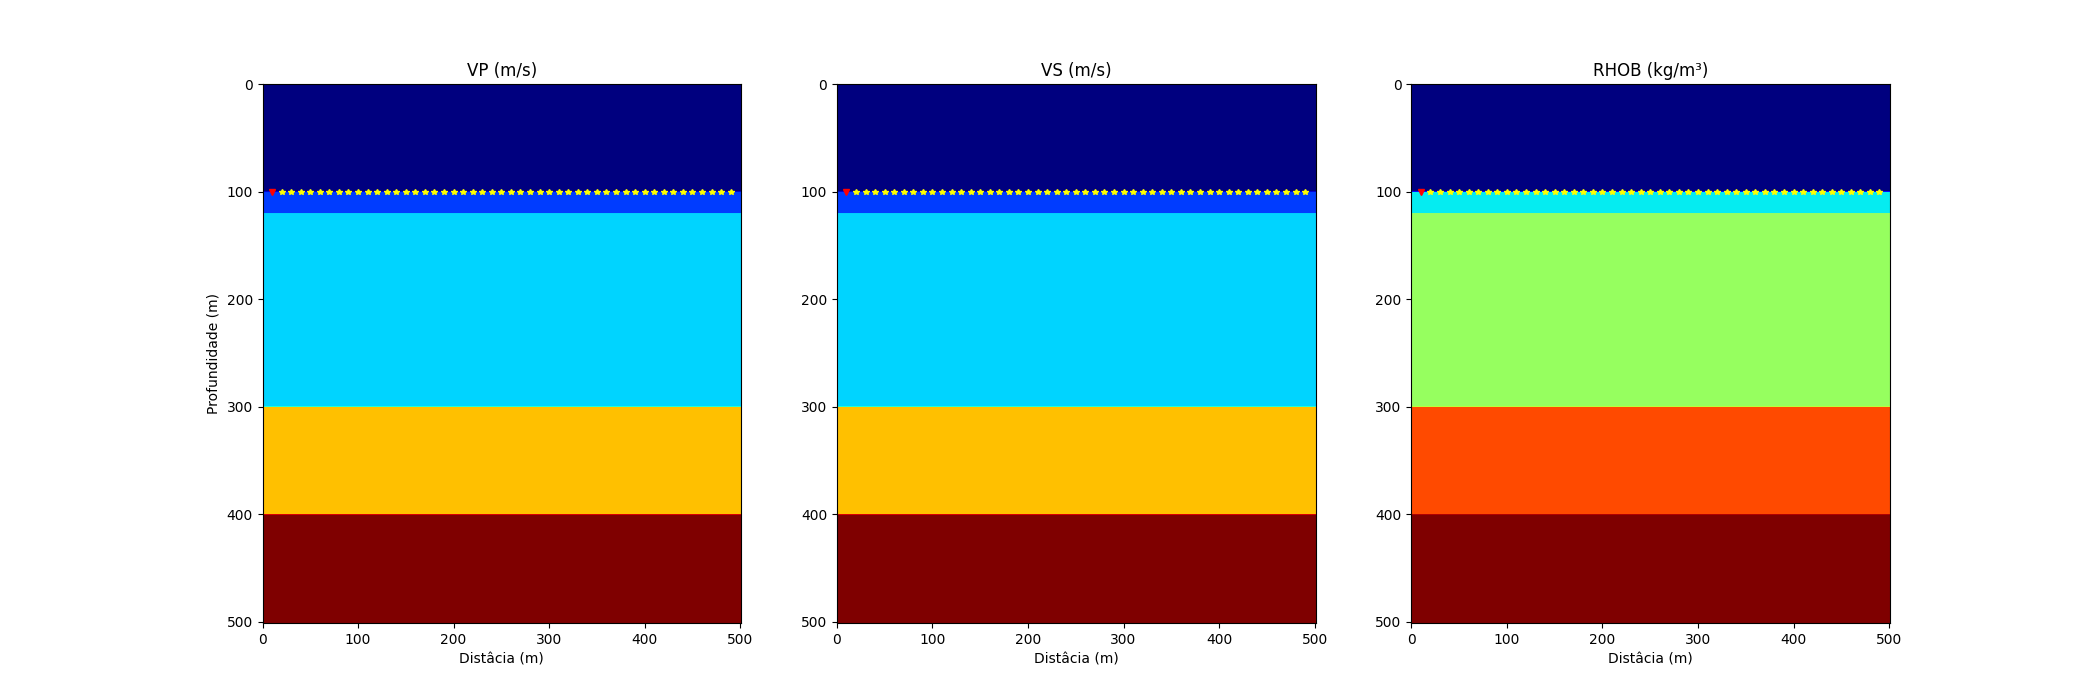
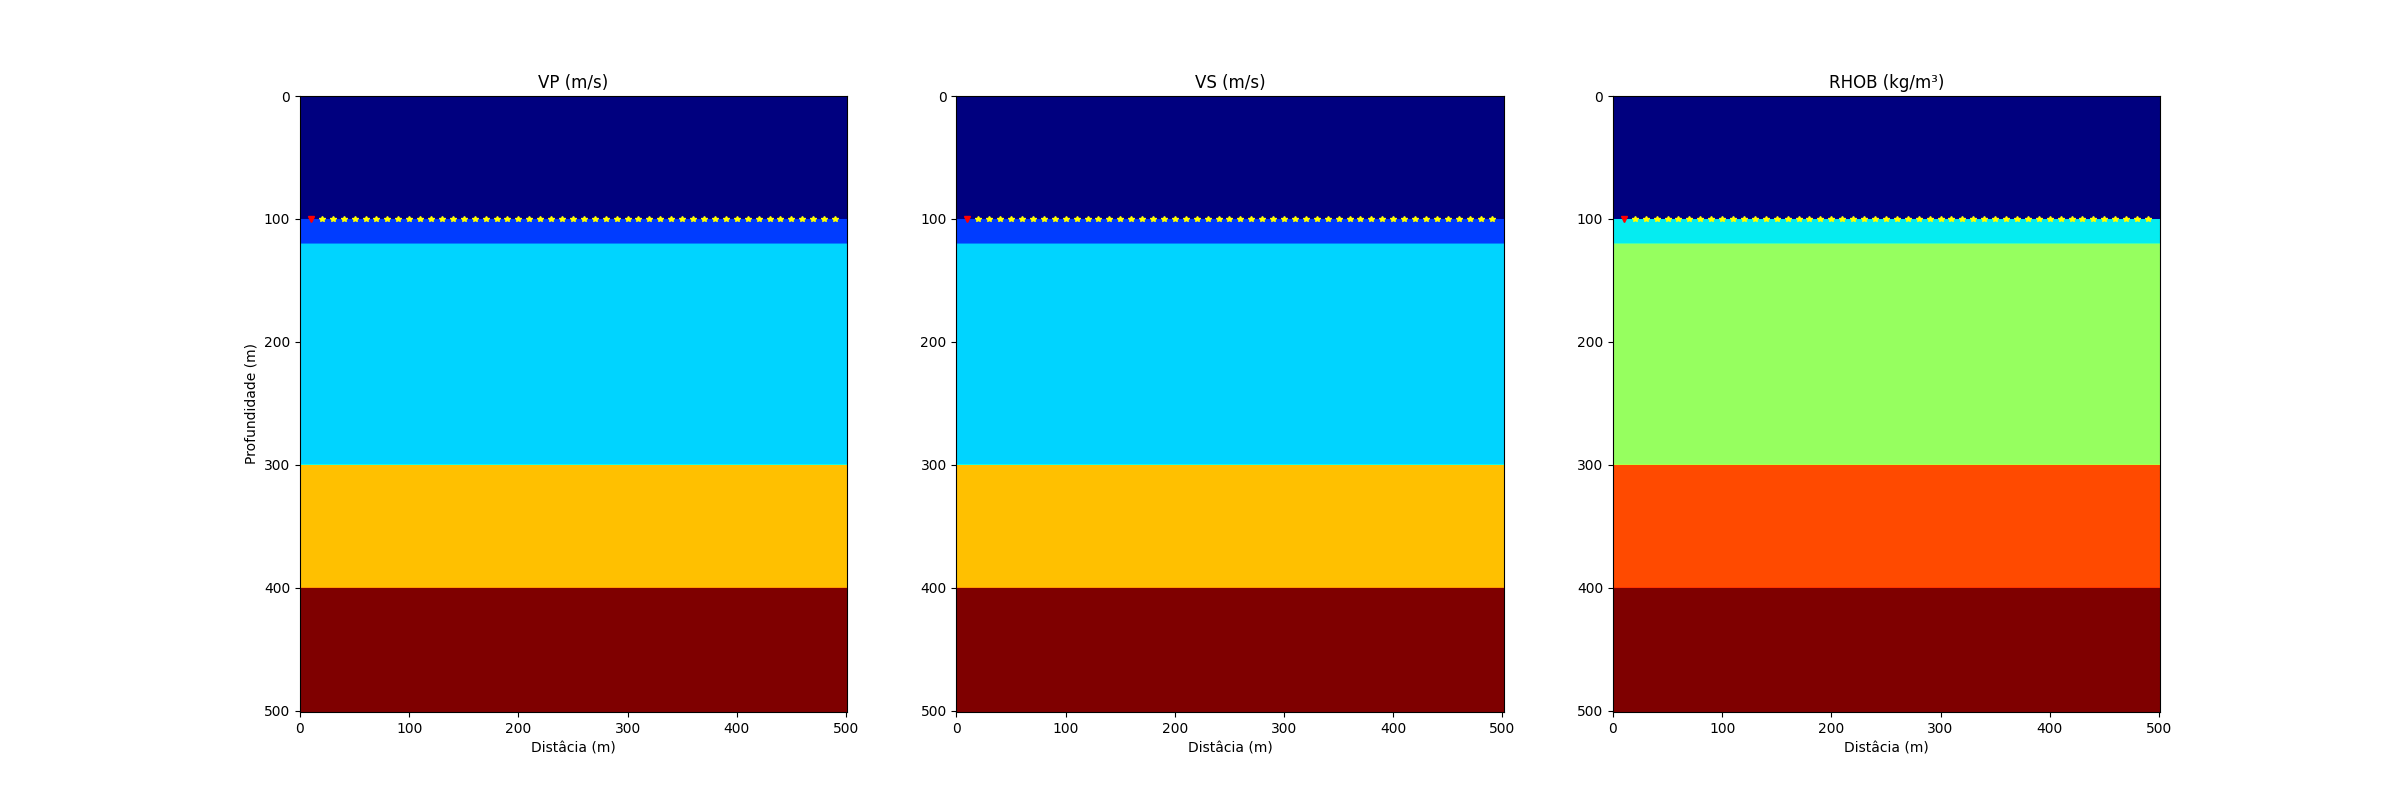
ajuste na dimensão da imagem

diff --git a/Model2D.py b/Model2D.py
@@ -104,7 +104,7 @@ while shot !=len(rec) + 1:
 #---------------------------------------------------------
 
 # Plot dos modelos
-plt.figure(figsize = (21,7))
+plt.figure(figsize = (24,8))
 
 plt.subplot(131)
 plt.title('VP (m/s)')

diff --git a/README.md b/README.md
@@ -1,4 +1,5 @@
 # Modelagem2D
 Criação de Modelos Sísmicos 2D
 
+### Modelo plano paralelo
 ![2DModels](2DModels.png)
